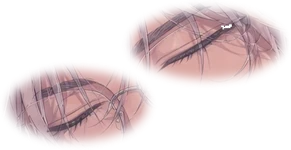
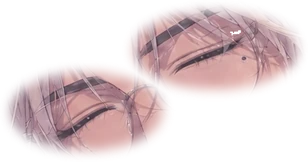
Demo22 dryerR: blink redrawn (Seedance; both eyes fully closed, the mole stays)

Changed region(s): [[0.0309, 0.4267, 0.5567, 0.9067], [0.4021, 0.0267, 0.9588, 0.56]]

diff --git a/demos/for-women/Demo22_ShionRain/media/layers.js b/demos/for-women/Demo22_ShionRain/media/layers.js
@@ -271,12 +271,12 @@ window.MOHEAT_LAYERS = {
    },
    "patches": [
     {
-     "src": "art/dryerR_eyes.webp?v=a3f720b7",
+     "src": "art/dryerR_eyes.webp?v=e944eaca",
      "rect": [
-      653,
-      148,
-      291,
-      150
+      644,
+      142,
+      308,
+      162
      ],
      "kind": "eyes"
     },
